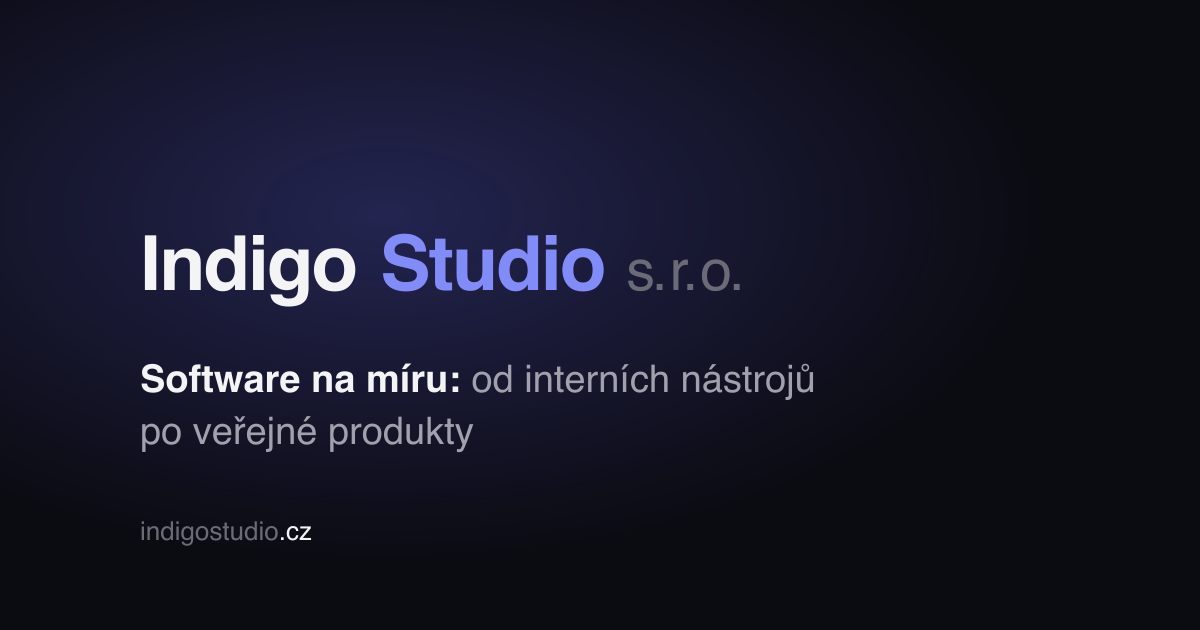
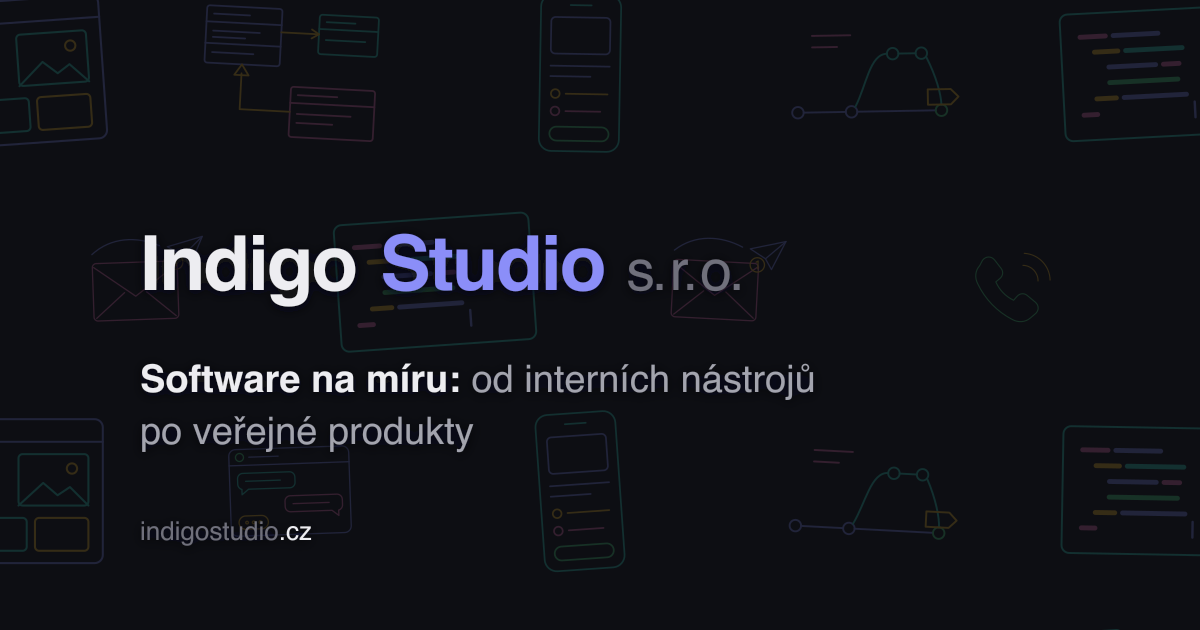
Malůvky: chat a hovor jako perličky, víc e-mailů, tlumenější pozadí
- Nové motivy chat a hovor: menší, nejvýš jednou na stránce
- E-mail menší a ve vzoru častěji (vzor o 10 motivech bez stejných sousedů)
- Pozadí tlumenější (0.11 / 0.1 / 0.08), ať je text čitelný
- OG obrázek: malůvky podle webu, pozadí a barvy textu z tokenů webu,
  jemný stín textu

diff --git a/public/doodles.js b/public/doodles.js
@@ -12,12 +12,12 @@
     --cell: 290px;
     position: fixed; inset: 0; z-index: -1;
     pointer-events: none; overflow: hidden;
-    opacity: 0.17;
+    opacity: 0.11;
   }
   @media (prefers-color-scheme: light) {
-    .doodles { --c1: #6366f1; --c2: #db2777; --c3: #0d9488; --c4: #d97706; --c5: #16a34a; opacity: 0.16; }
+    .doodles { --c1: #6366f1; --c2: #db2777; --c3: #0d9488; --c4: #d97706; --c5: #16a34a; opacity: 0.1; }
   }
-  @media (max-width: 560px) { .doodles { opacity: 0.13; } }
+  @media (max-width: 560px) { .doodles { opacity: 0.08; } }
   .doodle {
     position: absolute; height: auto;
     width: calc(var(--cell) * var(--w, 0.75));
@@ -38,7 +38,9 @@
 
   /* relativní velikost motivu vůči buňce vzoru */
   .d-mock { --w: 0.78; } .d-code { --w: 0.74; } .d-uml { --w: 0.68; } .d-flow { --w: 0.84; }
-  .d-mail { --w: 0.6; } .d-phone { --w: 0.36; } .d-kanban { --w: 0.72; } .d-git { --w: 0.66; }
+  .d-mail { --w: 0.45; } .d-phone { --w: 0.36; } .d-kanban { --w: 0.72; } .d-git { --w: 0.66; }
+  /* chat a hovor jsou vzácné „perličky": menší a nejvýš jednou na stránce */
+  .d-chat { --w: 0.46; } .d-call { --w: 0.34; }
 
   @keyframes doodle-draw {
     0%        { stroke-dashoffset: 1; }
@@ -177,6 +179,29 @@
   <path class="s k4" style="--i:9" pathLength="1" d="M160 88h24l8 8-8 8h-24z"/>
   <path class="s k2" style="--i:10" pathLength="1" d="M40 30h40M40 42h26"/>
 </svg>
+<!-- chat: konverzace v aplikaci -->
+<svg class="doodle d-chat" viewBox="0 0 200 150">
+  <rect class="s k1" style="--i:0" pathLength="1" x="10" y="10" width="180" height="130" rx="10"/>
+  <path class="s k1" style="--i:1" pathLength="1" d="M10 34h180"/>
+  <circle class="s k5" style="--i:2" pathLength="1" cx="26" cy="22" r="6"/>
+  <path class="s k1" style="--i:2" pathLength="1" d="M40 22h44"/>
+  <path class="s k3" style="--i:3" pathLength="1" d="M30 46h70a8 8 0 0 1 8 8v8a8 8 0 0 1-8 8H38l-10 8v-8a8 8 0 0 1-6-8v-8a8 8 0 0 1 8-8z"/>
+  <path class="s k3" style="--i:4" pathLength="1" d="M34 58h52"/>
+  <path class="s k2" style="--i:5" pathLength="1" d="M170 82H100a8 8 0 0 0-8 8v8a8 8 0 0 0 8 8h62l10 8v-8a8 8 0 0 0 6-8v-8a8 8 0 0 0-8-8z"/>
+  <path class="s k2" style="--i:6" pathLength="1" d="M104 94h54"/>
+  <rect class="s k4" style="--i:7" pathLength="1" x="22" y="110" width="44" height="20" rx="10"/>
+  <circle class="s k4" style="--i:8" pathLength="1" cx="34" cy="120" r="2"/>
+  <circle class="s k4" style="--i:9" pathLength="1" cx="44" cy="120" r="2"/>
+  <circle class="s k4" style="--i:10" pathLength="1" cx="54" cy="120" r="2"/>
+</svg>
+
+<!-- telefon: příchozí hovor -->
+<svg class="doodle d-call" viewBox="0 0 180 150">
+  <path class="s k5" style="--i:0" pathLength="1" d="M30 36c6-8 16-8 22-1l12 15c5 6 4 14-2 19l-7 6c7 15 18 26 33 33l6-7c5-6 13-7 19-2l15 12c7 6 7 16-1 22l-8 7c-9 8-22 9-33 3-28-14-50-36-64-64-6-11-5-24 3-33z"/>
+  <path class="s k4" style="--i:4" pathLength="1" d="M104 44a28 28 0 0 1 28 28"/>
+  <path class="s k4" style="--i:6" pathLength="1" d="M106 22a50 50 0 0 1 48 48"/>
+</svg>
+
 `;
 
   var style = document.createElement("style");
@@ -190,7 +215,20 @@
 
   var tpl = document.createElement("template");
   tpl.innerHTML = SVGS;
-  var set = tpl.content.querySelectorAll(".doodle");
+  var all = tpl.content.querySelectorAll(".doodle");
+  var byName = {}, rare = [];
+  // perličky (chat, hovor) se neopakují ve vzoru — každá max. jednou na stránce
+  Array.prototype.forEach.call(all, function (el) {
+    var name = el.getAttribute("class").match(/d-\w+$/)[0];
+    byName[name] = el;
+    if (/d-(chat|call)/.test(name)) rare.push(el);
+  });
+  // pořadí vzoru; e-mail a kód jsou dvakrát (častější). Duplikáty mají odstup 4 a 6,
+  // takže při indexu (c*3 + r*5) % 10 nikdy nesousedí stejné motivy.
+  var PATTERN = ["d-mock", "d-mail", "d-code", "d-uml", "d-flow", "d-mail", "d-phone", "d-kanban", "d-code", "d-git"];
+  var set = PATTERN.map(function (n) { return byName[n]; });
+  // kde perličky leží: nejbližší buňka ke kotvě (podíl šířky/výšky viewportu)
+  var RARE_AT = { "d-call": [0.85, 0.2], "d-chat": [0.3, 0.8] };
   var key = "";
 
   function build() {
@@ -201,18 +239,33 @@
     key = cols + "x" + rows + "@" + cell;
     host.style.setProperty("--cell", cell + "px");
     host.textContent = "";
+    var cells = [];
     for (var r = 0; r < rows; r++) {
       for (var c = 0; c < cols; c++) {
-        // sousedé (vodorovně i svisle) mají vždy jiný motiv
-        var svg = set[(c * 3 + r * 5) % set.length].cloneNode(true);
-        svg.style.left = (c + (r % 2 ? 0.5 : 0)) * cell + "px";
-        svg.style.top = (r + 0.35) * rowH + "px";
-        svg.style.rotate = (((c * 7 + r * 11) % 9) - 4) + "deg";
-        // posun startu po diagonále → kreslení běží ve vlnách
-        svg.style.setProperty("--o", -(((c + r) * 1.4) % 18).toFixed(1) + "s");
-        host.appendChild(svg);
+        cells.push({ r: r, c: c, x: (c + (r % 2 ? 0.5 : 0)) * cell, y: (r + 0.35) * rowH });
       }
     }
+    // perličky dostanou buňku nejblíž své kotvě (jen celé viditelné buňky)
+    var taken = {};
+    rare.forEach(function (el) {
+      var name = el.getAttribute("class").match(/d-\w+$/)[0], at = RARE_AT[name], best = -1, bestD = Infinity;
+      cells.forEach(function (p, i) {
+        if (taken[i] || p.x < cell / 2 || p.x > w - cell / 2 || p.y < rowH / 2 || p.y > h - rowH / 2) return;
+        var d = Math.pow(p.x - at[0] * w, 2) + Math.pow(p.y - at[1] * h, 2);
+        if (d < bestD) { bestD = d; best = i; }
+      });
+      if (best >= 0) taken[best] = el;
+    });
+    cells.forEach(function (p, i) {
+      // sousedé (vodorovně i svisle) mají vždy jiný motiv
+      var svg = (taken[i] || set[(p.c * 3 + p.r * 5) % set.length]).cloneNode(true);
+      svg.style.left = p.x + "px";
+      svg.style.top = p.y + "px";
+      svg.style.rotate = (((p.c * 7 + p.r * 11) % 9) - 4) + "deg";
+      // posun startu po diagonále → kreslení běží ve vlnách
+      svg.style.setProperty("--o", -(((p.c + p.r) * 1.4) % 18).toFixed(1) + "s");
+      host.appendChild(svg);
+    });
   }
   build();
   var t;
